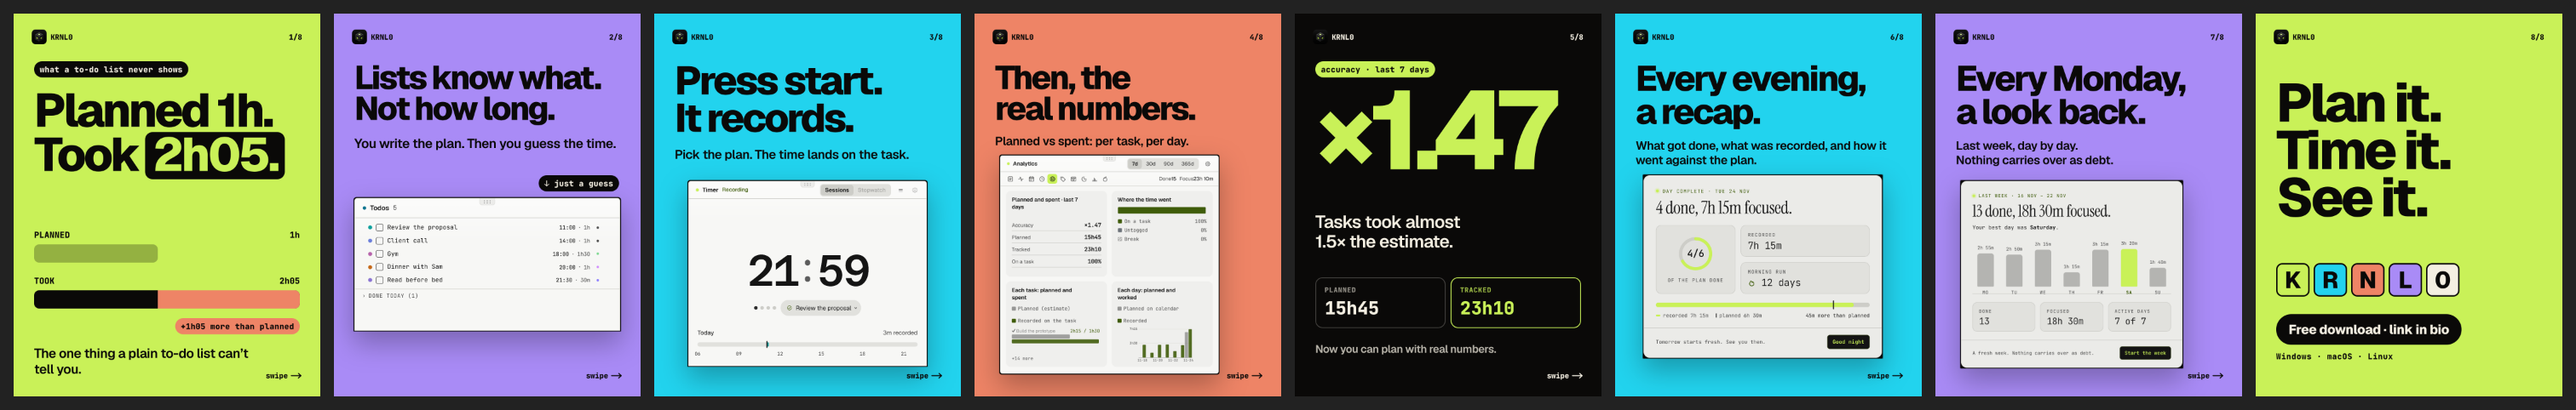
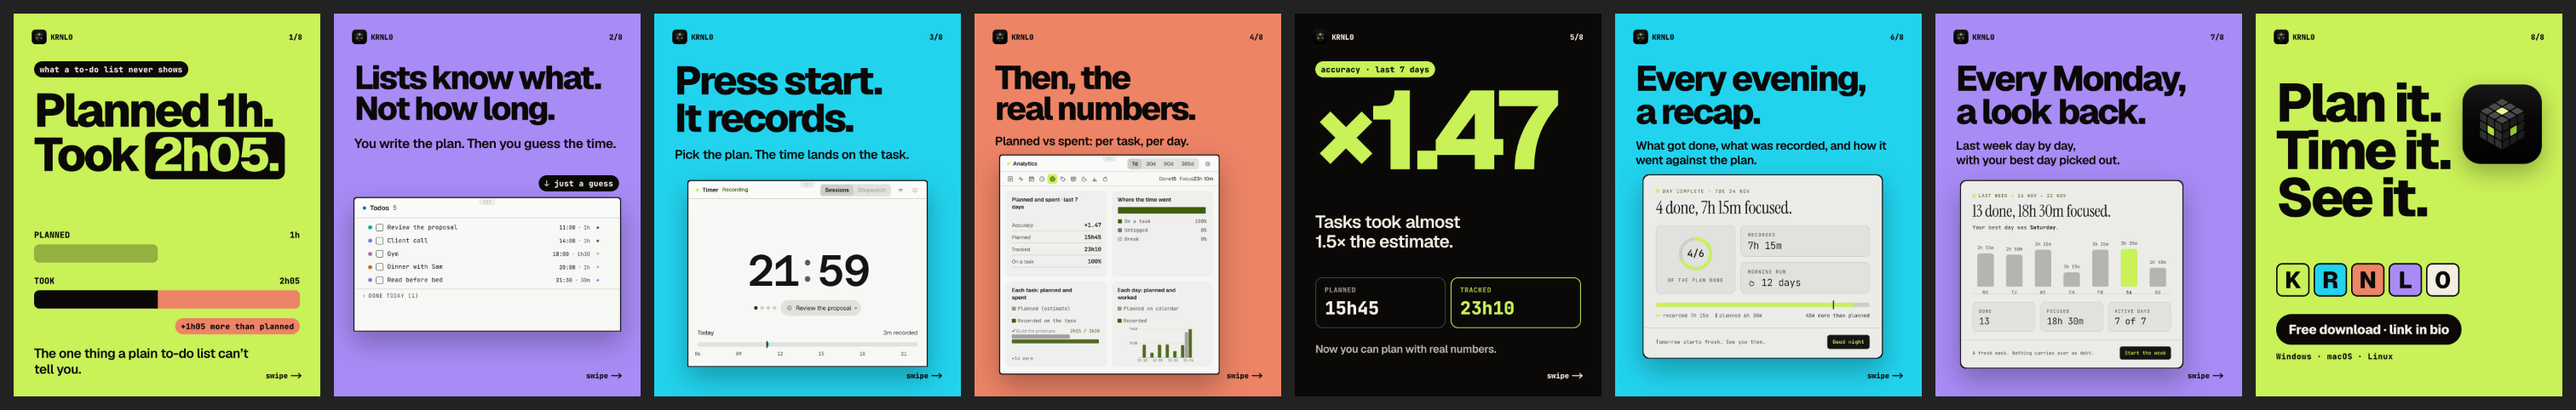
wip(marketing): carousel posts (all but 01 and 07 done)

Changed region(s): [[0.9325, 0.1867, 0.9947, 0.4357], [0.746, 0.3423, 0.8393, 0.4046]]

diff --git a/marketing/posts/07-focus-sound/slides.html b/marketing/posts/07-focus-sound/slides.html
@@ -6,6 +6,9 @@
  .t .headline{font-size:116px}
  .t .sub{margin-top:30px;max-width:900px;font-size:42px;opacity:.82}
  .img{position:absolute;display:block}
+ .img{outline:3px solid #0a0908;outline-offset:0}
+ .slide.ink .img,.slide.ink .win{outline-color:rgba(244,239,226,.28)}
+ .win{outline:3px solid #0a0908}
  .img.shadow{filter:drop-shadow(0 36px 44px rgba(0,0,0,.30)) drop-shadow(0 8px 14px rgba(0,0,0,.22))}
  .chips{position:absolute;display:flex;gap:12px;flex-wrap:wrap}
  .tag{position:absolute;font-family:var(--mono);font-weight:800;font-size:26px;letter-spacing:.02em}
@@ -21,17 +24,17 @@
   <div class="ghost" style="left:-30px;top:760px;font-size:430px;color:#0a0908">20:58</div>
   <div class="bar"><div class="brand"><img src="../_shared/icon.svg" alt=""><span>@krnl0.app</span></div><span>1/6</span></div>
   <div class="t"><div class="headline">Give your<br>focus a<br>soundtrack.</div></div>
-  <img class="img shadow" src="assets/radio-rain.png" style="left:440px;top:610px;width:500px" alt="">
+  <img class="img shadow" src="assets/radio-rain.png" style="left:400px;top:596px;width:580px" alt="">
   <div class="chips" style="left:64px;top:1180px"><span class="chip">Built in</span></div>
   <div class="swipe">swipe →</div>
 </section>
 
 <!-- 2 · the sounds -->
-<section class="slide paper" id="s2">
+<section class="slide acid" id="s2">
   <div class="bar"><div class="brand"><img src="../_shared/icon.svg" alt=""><span>@krnl0.app</span></div><span>2/6</span></div>
   <div class="t"><div class="headline">Tap a sound.<br>It plays.</div><div class="sub">Six sounds are built in. Or paste a YouTube link.</div></div>
-  <img class="img shadow" src="assets/radio-off.png" style="left:64px;top:690px;width:560px" alt="">
-  <div class="chips" style="left:690px;top:730px;width:330px;flex-direction:column;align-items:flex-start;gap:14px">
+  <img class="img shadow" src="assets/radio-off.png" style="left:64px;top:566px;width:700px" alt="">
+  <div class="chips" style="left:812px;top:600px;width:210px;flex-direction:column;align-items:flex-start;gap:14px">
     <span class="chip">Dark</span><span class="chip">Rain</span><span class="chip">Fire</span><span class="chip">Synth</span><span class="chip">White</span><span class="chip">Brown</span>
   </div>
   <div class="swipe">swipe →</div>
@@ -41,7 +44,7 @@
 <section class="slide cyan" id="s3">
   <div class="bar"><div class="brand"><img src="../_shared/icon.svg" alt=""><span>@krnl0.app</span></div><span>3/6</span></div>
   <div class="t"><div class="headline">Stack them.</div><div class="sub">Rain, fire and a soft synth. Every sound keeps its own volume.</div></div>
-  <img class="img shadow" src="assets/radio-mix.png" style="left:290px;top:590px;width:500px" alt="">
+  <img class="img shadow" src="assets/radio-mix.png" style="left:285px;top:576px;width:510px" alt="">
   <div class="swipe">swipe →</div>
 </section>
 
@@ -49,17 +52,17 @@
 <section class="slide coral" id="s4">
   <div class="bar"><div class="brand"><img src="../_shared/icon.svg" alt=""><span>@krnl0.app</span></div><span>4/6</span></div>
   <div class="t"><div class="headline">Tune every<br>sound.</div><div class="sub">Softness, density, reverb. All yours.</div></div>
-  <img class="img shadow" src="assets/radio-settings.png" style="left:320px;top:610px;width:440px" alt="">
+  <img class="img shadow" src="assets/radio-settings.png" style="left:305px;top:566px;width:470px" alt="">
   <div class="swipe">swipe →</div>
 </section>
 
 <!-- 5 · focus block -->
-<section class="slide paper" id="s5">
+<section class="slide ink" id="s5">
   <div class="ghost" style="left:-30px;top:860px;font-size:430px">25:00</div>
   <div class="bar"><div class="brand"><img src="../_shared/icon.svg" alt=""><span>@krnl0.app</span></div><span>5/6</span></div>
   <div class="t"><div class="headline">Press start.<br>Press play.</div><div class="sub">The Timer counts. The radio plays.</div></div>
-  <div class="win" style="left:64px;top:748px;width:440px;height:440px"><img src="assets/timer.png" alt=""></div>
-  <img class="img shadow" src="assets/radio-mix.png" style="left:616px;top:690px;width:400px" alt="">
+  <div class="win" style="left:64px;top:738px;width:450px;height:450px"><img src="assets/timer.png" alt=""></div>
+  <img class="img shadow" src="assets/radio-mix.png" style="left:566px;top:650px;width:450px" alt="">
   <div class="swipe">swipe →</div>
 </section>
 

diff --git a/marketing/posts/05-planned-vs-spent/slides/slide-8.html b/marketing/posts/05-planned-vs-spent/slides/slide-8.html
@@ -1,6 +1,7 @@
 <!doctype html><html><head><meta charset="utf-8"><link rel="stylesheet" href="slides.css"></head><body>
 <div class="slide acid" id="s"><div class="bar"><div class="brand"><img src="../../_shared/icon.svg"><span>KRNL0</span></div><span>8/8</span></div>
 <div class="h" style="top:230px;font-size:190px;line-height:.88">Plan it.<br>Time it.<br>See it.</div>
+<img src="../../_shared/icon.svg" style="position:absolute;right:72px;top:250px;width:280px;height:280px;border-radius:64px;filter:drop-shadow(0 30px 40px rgba(0,0,0,.28))">
 <div style="position:absolute;left:72px;top:880px"><div class="tiles"><b>K</b><b>R</b><b>N</b><b>L</b><b>0</b></div></div>
 <div style="position:absolute;left:72px;top:1060px"><span class="cta">Free download &middot; link in bio</span></div>
 <div class="mono" style="position:absolute;left:72px;top:1190px;font-size:28px;letter-spacing:.04em">Windows &middot; macOS &middot; Linux</div>

diff --git a/marketing/posts/05-planned-vs-spent/scripts/build.py b/marketing/posts/05-planned-vs-spent/scripts/build.py
@@ -93,6 +93,7 @@ page(7, "lav", '''
 # 8 — end -------------------------------------------------------------------------------------------
 page(8, "acid", '''
 <div class="h" style="top:230px;font-size:190px;line-height:.88">Plan it.<br>Time it.<br>See it.</div>
+<img src="../../_shared/icon.svg" style="position:absolute;right:72px;top:250px;width:280px;height:280px;border-radius:64px;filter:drop-shadow(0 30px 40px rgba(0,0,0,.28))">
 <div style="position:absolute;left:72px;top:880px"><div class="tiles"><b>K</b><b>R</b><b>N</b><b>L</b><b>0</b></div></div>
 <div style="position:absolute;left:72px;top:1060px"><span class="cta">Free download &middot; link in bio</span></div>
 <div class="mono" style="position:absolute;left:72px;top:1190px;font-size:28px;letter-spacing:.04em">Windows &middot; macOS &middot; Linux</div>

diff --git a/marketing/posts/05-planned-vs-spent/scripts/trim.py b/marketing/posts/05-planned-vs-spent/scripts/trim.py
@@ -8,5 +8,5 @@ for f in sorted(A.glob("*.png")):
     im = Image.open(f).convert("RGBA"); a = np.array(im)[:, :, 3]
     ys, xs = np.where(a >= 250)
     box = (xs.min(), ys.min(), xs.max() + 1, ys.max() + 1)
-    im.crop(box).save(f)
+    im = im.crop(box); px = np.array(im); px[px[:, :, 3] < 60] = 0; Image.fromarray(px).save(f)   # faint scrim remnants in the rounded corners -> fully transparent
     print(f.name, im.size, "->", (box[2] - box[0], box[3] - box[1]))

diff --git a/marketing/posts/05-planned-vs-spent/caption.md b/marketing/posts/05-planned-vs-spent/caption.md
@@ -1,0 +1,14 @@
+Your to-do list says what. It never says how long. ⏱
+
+Planned 1h. Took 2h05. Sound familiar?
+
+In KRNL0 you plan a task, press start on the timer, and the time lands on that task. Then Analytics sets planned against spent: per task, per day. In this demo week, tasks took ×1.47 their estimate. Now you can plan with real numbers.
+
+Every evening a recap shows what got done, what was recorded and how it went against the plan. Every Monday, a look back at last week, day by day.
+
+Free. No account. Your plans stay on your computer.
+Free download · link in bio
+
+(Demo data, shown for illustration.)
+
+#krnl0 #productivityapp #timetracking #planning #focus #pomodoro #todolist #deepwork #studywithme #timemanagement #desktopapp #productivitytips
